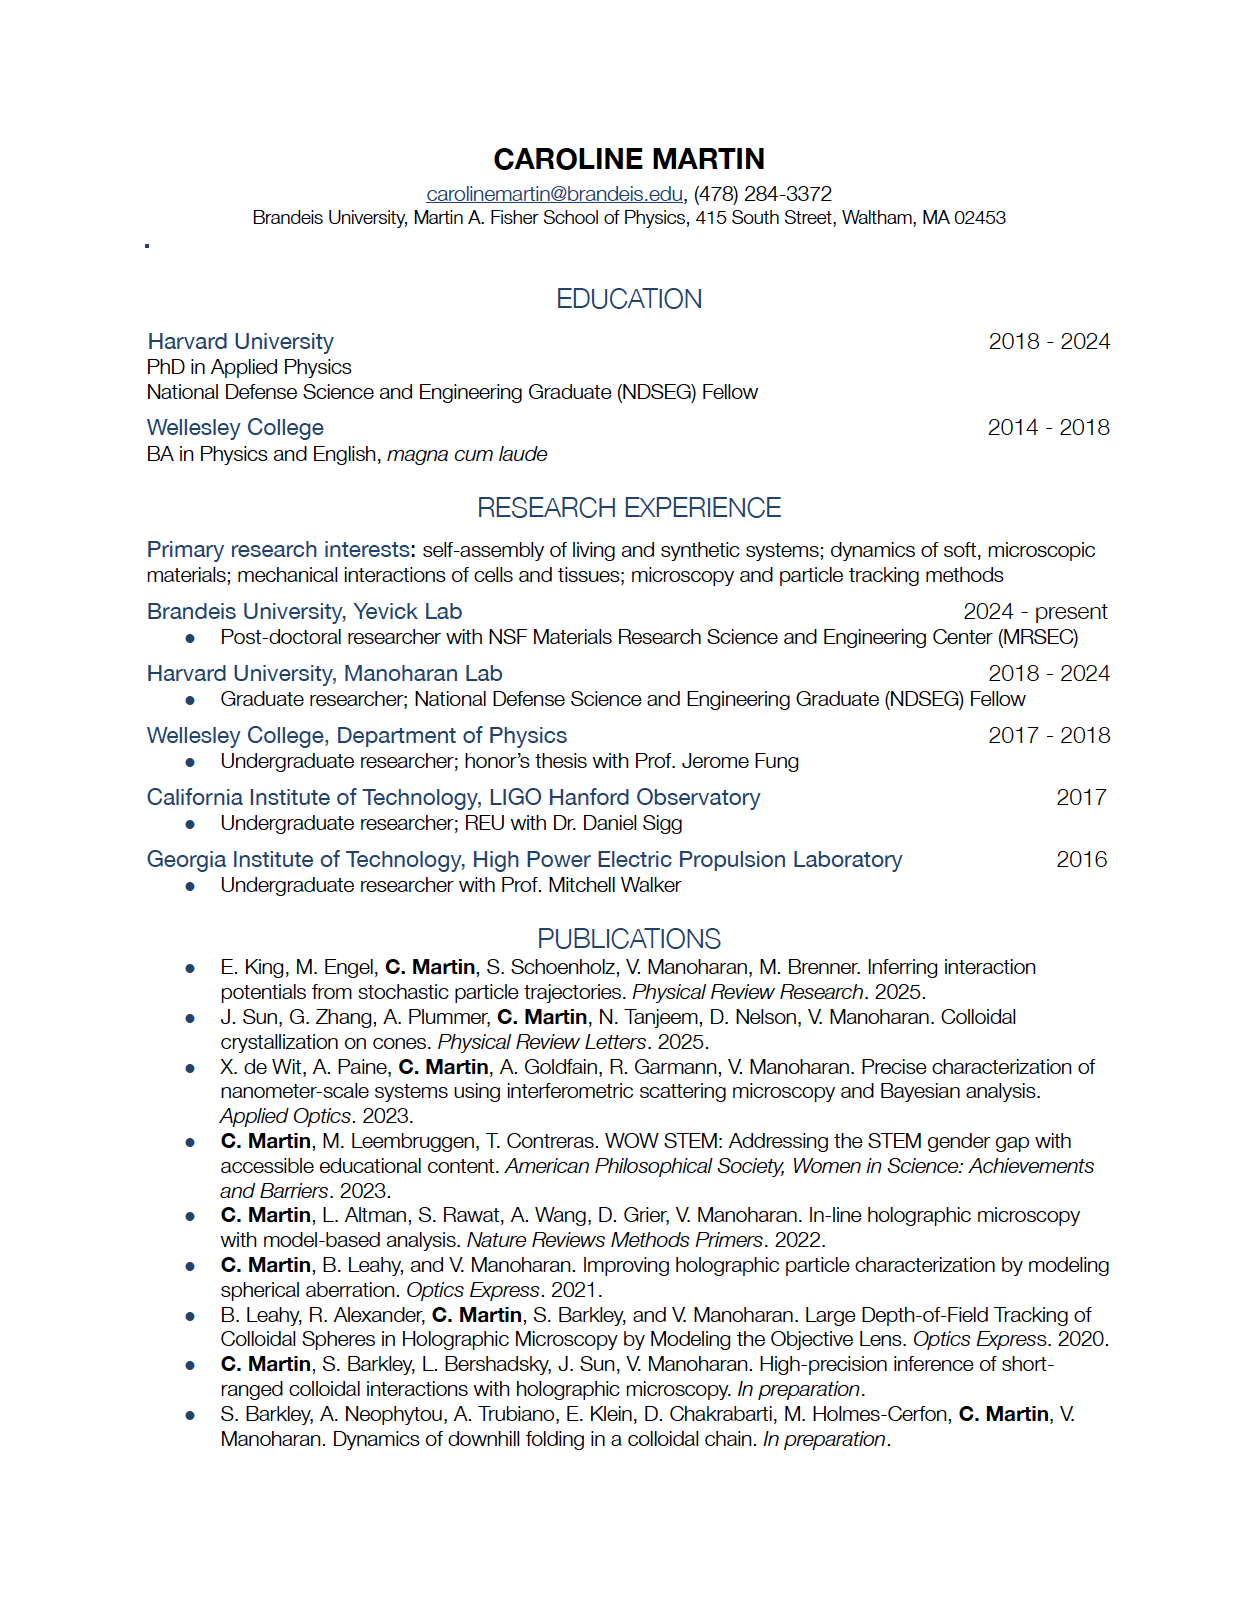
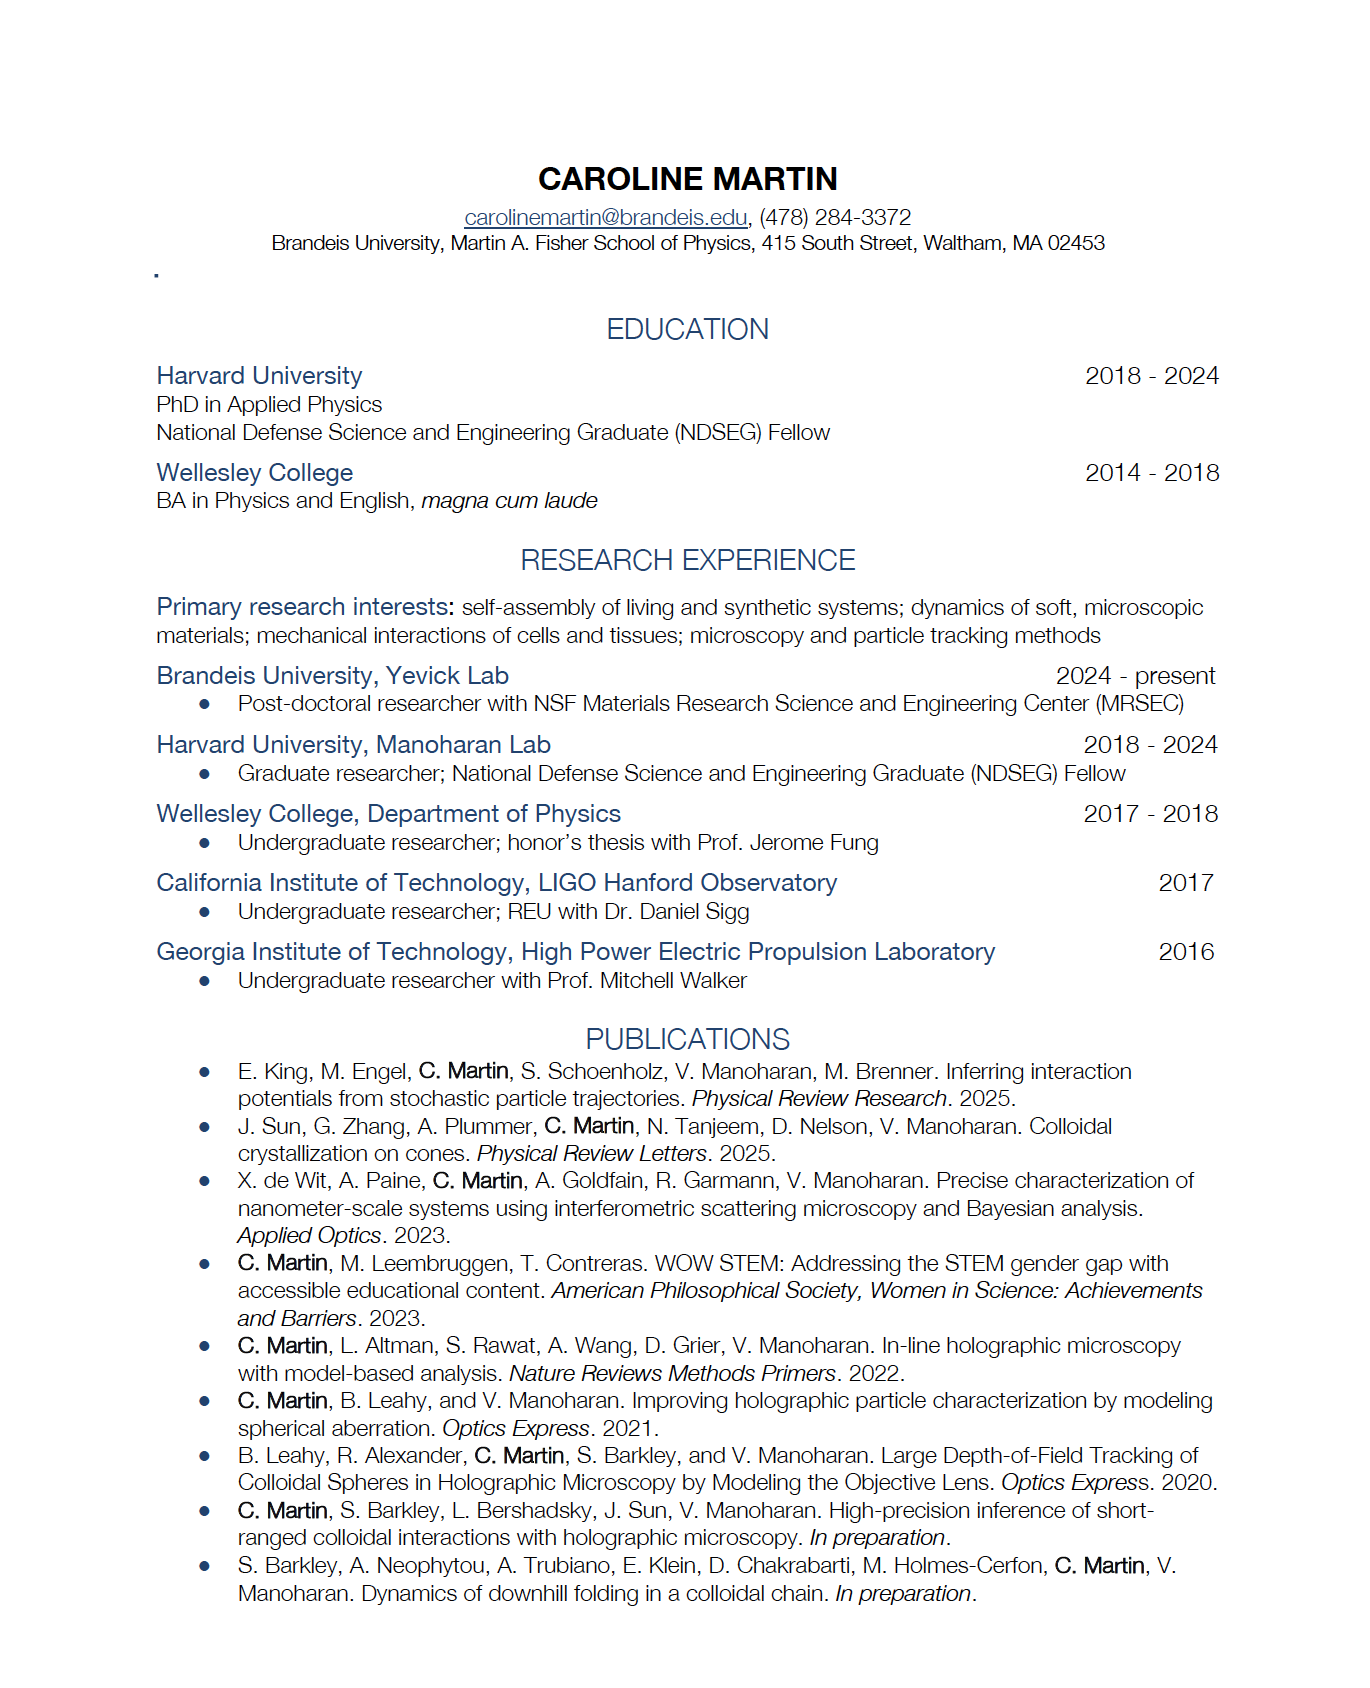
update cv

Changed region(s): [[0.0932, 0.0924, 0.9005, 0.9544], [0.7763, 0.1847, 0.9005, 0.2771]]

diff --git a/_pages/cv.md b/_pages/cv.md
@@ -12,3 +12,4 @@ redirect_from:
 ![CV1](/images/cv1.png)
 ![CV2](/images/cv2.png)
 ![CV3](/images/cv3.png)
+![CV4](/images/cv4.png)
